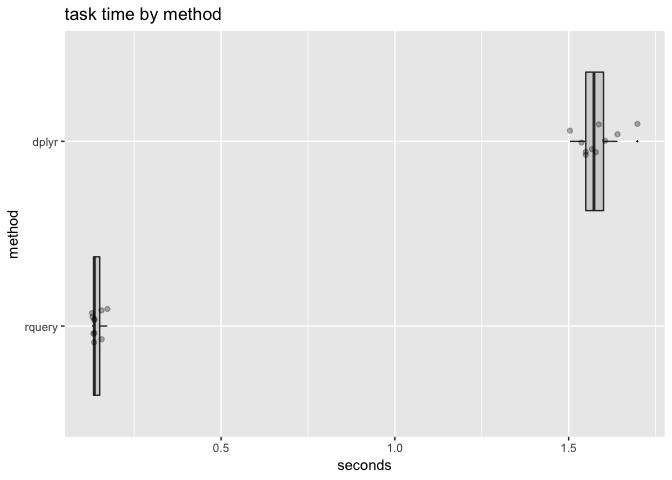
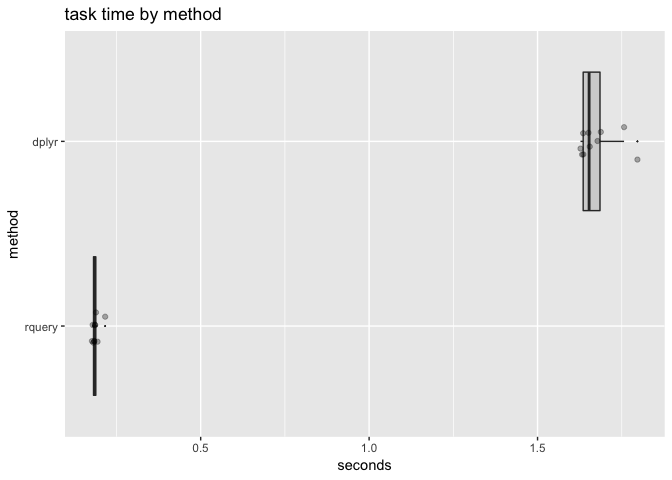
edit

diff --git a/extras/CollectExprs.md b/extras/CollectExprs.md
@@ -44,9 +44,10 @@ db_hdl <- rquery_db_info(
   is_dbi = TRUE,
   connection_options = dbopts)
 
+nrow <- 1000000
 td <- rq_copy_to(db_hdl, 
                  "d",
-                 data.frame(x = 1:5),
+                 data.frame(x = seq_len(nrow)),
                  overwrite = TRUE,
                  temporary = TRUE)
 
@@ -55,34 +56,58 @@ tbl <- dplyr::tbl(con, "d")
 ncol <- 100
 ```
 
-[`rquery`](https://CRAN.R-project.org/package=rquery) torture function: add 100 columns.
+[`rquery`](https://CRAN.R-project.org/package=rquery) torture function: add 100 columns to a 1000000 row table.
 
 ``` r
-rquery_fn <- function(db_hdl, td, ncol) {
+rquery_fn <- function(db_hdl, td, ncol, return_sql = FALSE) {
   expressions <- character(0)
   for(i in seq_len(ncol)) {
     expri <- paste0("x_", i) %:=% paste0("x + ", i)
     expressions <- c(expressions, expri)
   }
   ops <- td %.>%
-    extend_se(., expressions)
+    extend_se(., expressions) %.>%
+    select_rows_nse(., x == 3)
+  if(return_sql) {
+    return(to_sql(ops, db_hdl))
+  }
+  # force execution
   db_hdl %.>% ops
 }
 
+cat(rquery_fn(db_hdl, td, 5, return_sql = TRUE))
+```
+
+    ## SELECT * FROM (
+    ##  SELECT
+    ##   "x",
+    ##   "x" + 1  AS "x_1",
+    ##   "x" + 2  AS "x_2",
+    ##   "x" + 3  AS "x_3",
+    ##   "x" + 4  AS "x_4",
+    ##   "x" + 5  AS "x_5"
+    ##  FROM (
+    ##   SELECT
+    ##    "x"
+    ##   FROM
+    ##    "d"
+    ##   ) tsql_77774864536840498052_0000000000
+    ## ) tsql_77774864536840498052_0000000001
+    ## WHERE "x" = 3
+
+``` r
 rquery_fn(db_hdl, td, 5)
 ```
 
     ##   x x_1 x_2 x_3 x_4 x_5
-    ## 1 1   2   3   4   5   6
-    ## 2 2   3   4   5   6   7
-    ## 3 3   4   5   6   7   8
-    ## 4 4   5   6   7   8   9
-    ## 5 5   6   7   8   9  10
+    ## 1 3   4   5   6   7   8
+
+The row-selection step is cut down on the in-memory cost of bringing the result back to `R`. Obviously we could optimize the example away by pivoting the filter to earlier in the example pipeline. We ask the reader to take this example as a stand-in for a more complicated (though nasty) real-world example where such optimizations are not available.
 
 Same torture for [`dplyr`](https://CRAN.R-project.org/package=dplyr).
 
 ``` r
-dplyr_fn <- function(tbl, ncol) {
+dplyr_fn <- function(tbl, ncol, return_sql = FALSE) {
   pipeline <- tbl
   xvar <- rlang::sym("x")
   for(i in seq_len(ncol)) {
@@ -90,20 +115,35 @@ dplyr_fn <- function(tbl, ncol) {
     pipeline <- pipeline %>%
       mutate(., !!res_i := !!xvar + i)
   }
+  pipeline <- pipeline %>%
+    filter(., x == 3)
+  if(return_sql) {
+    return(dbplyr::remote_query(pipeline))
+  }
+  # force execution
   pipeline %>% collect(.)
 }
 
+cat(dplyr_fn(tbl, 5, return_sql = TRUE))
+```
+
+    ## SELECT *
+    ## FROM (SELECT "x", "x_1", "x_2", "x_3", "x_4", "x" + 5 AS "x_5"
+    ## FROM (SELECT "x", "x_1", "x_2", "x_3", "x" + 4 AS "x_4"
+    ## FROM (SELECT "x", "x_1", "x_2", "x" + 3 AS "x_3"
+    ## FROM (SELECT "x", "x_1", "x" + 2 AS "x_2"
+    ## FROM (SELECT "x", "x" + 1 AS "x_1"
+    ## FROM "d") "urgsxtdwta") "ymucuytolh") "jthbtpwxwd") "wrwjbybnrl") "iyktqjhihg"
+    ## WHERE ("x" = 3.0)
+
+``` r
 dplyr_fn(tbl, 5)
 ```
 
-    ## # A tibble: 5 x 6
+    ## # A tibble: 1 x 6
     ##       x   x_1   x_2   x_3   x_4   x_5
     ## * <int> <int> <int> <int> <int> <int>
-    ## 1     1     2     3     4     5     6
-    ## 2     2     3     4     5     6     7
-    ## 3     3     4     5     6     7     8
-    ## 4     4     5     6     7     8     9
-    ## 5     5     6     7     8     9    10
+    ## 1     3     4     5     6     7     8
 
 Time the functions.
 
@@ -123,9 +163,9 @@ print(timings)
 ```
 
     ## Unit: milliseconds
-    ##    expr       min        lq     mean    median        uq       max neval
-    ##  rquery  128.3562  132.5843  141.671  135.3425  155.7883  172.7109    10
-    ##   dplyr 1503.8006 1549.2284 1581.519 1572.8269 1604.8545 1697.8595    10
+    ##    expr      min        lq      mean   median        uq       max neval
+    ##  rquery  177.194  181.2475  187.8301  185.206  189.2457  216.4919    10
+    ##   dplyr 1627.519 1635.3129 1675.6221 1653.072 1687.8441 1796.4718    10
 
 ``` r
 #autoplot(timings)
@@ -154,14 +194,14 @@ tratio <- timings %.>%
 tratio
 ```
 
-    ##       dplyr   rquery    ratio
-    ## 1: 1.581519 0.141671 11.16332
+    ##       dplyr    rquery    ratio
+    ## 1: 1.675622 0.1878301 8.920946
 
 ``` r
 ratio_str <- sprintf("%.2g", tratio$ratio)
 ```
 
-`rquery` is about 11 times faster than `dplyr` for this task.
+`rquery` is about 8.9 times faster than `dplyr` for this task at this scale.
 
 ``` r
 DBI::dbDisconnect(con)
